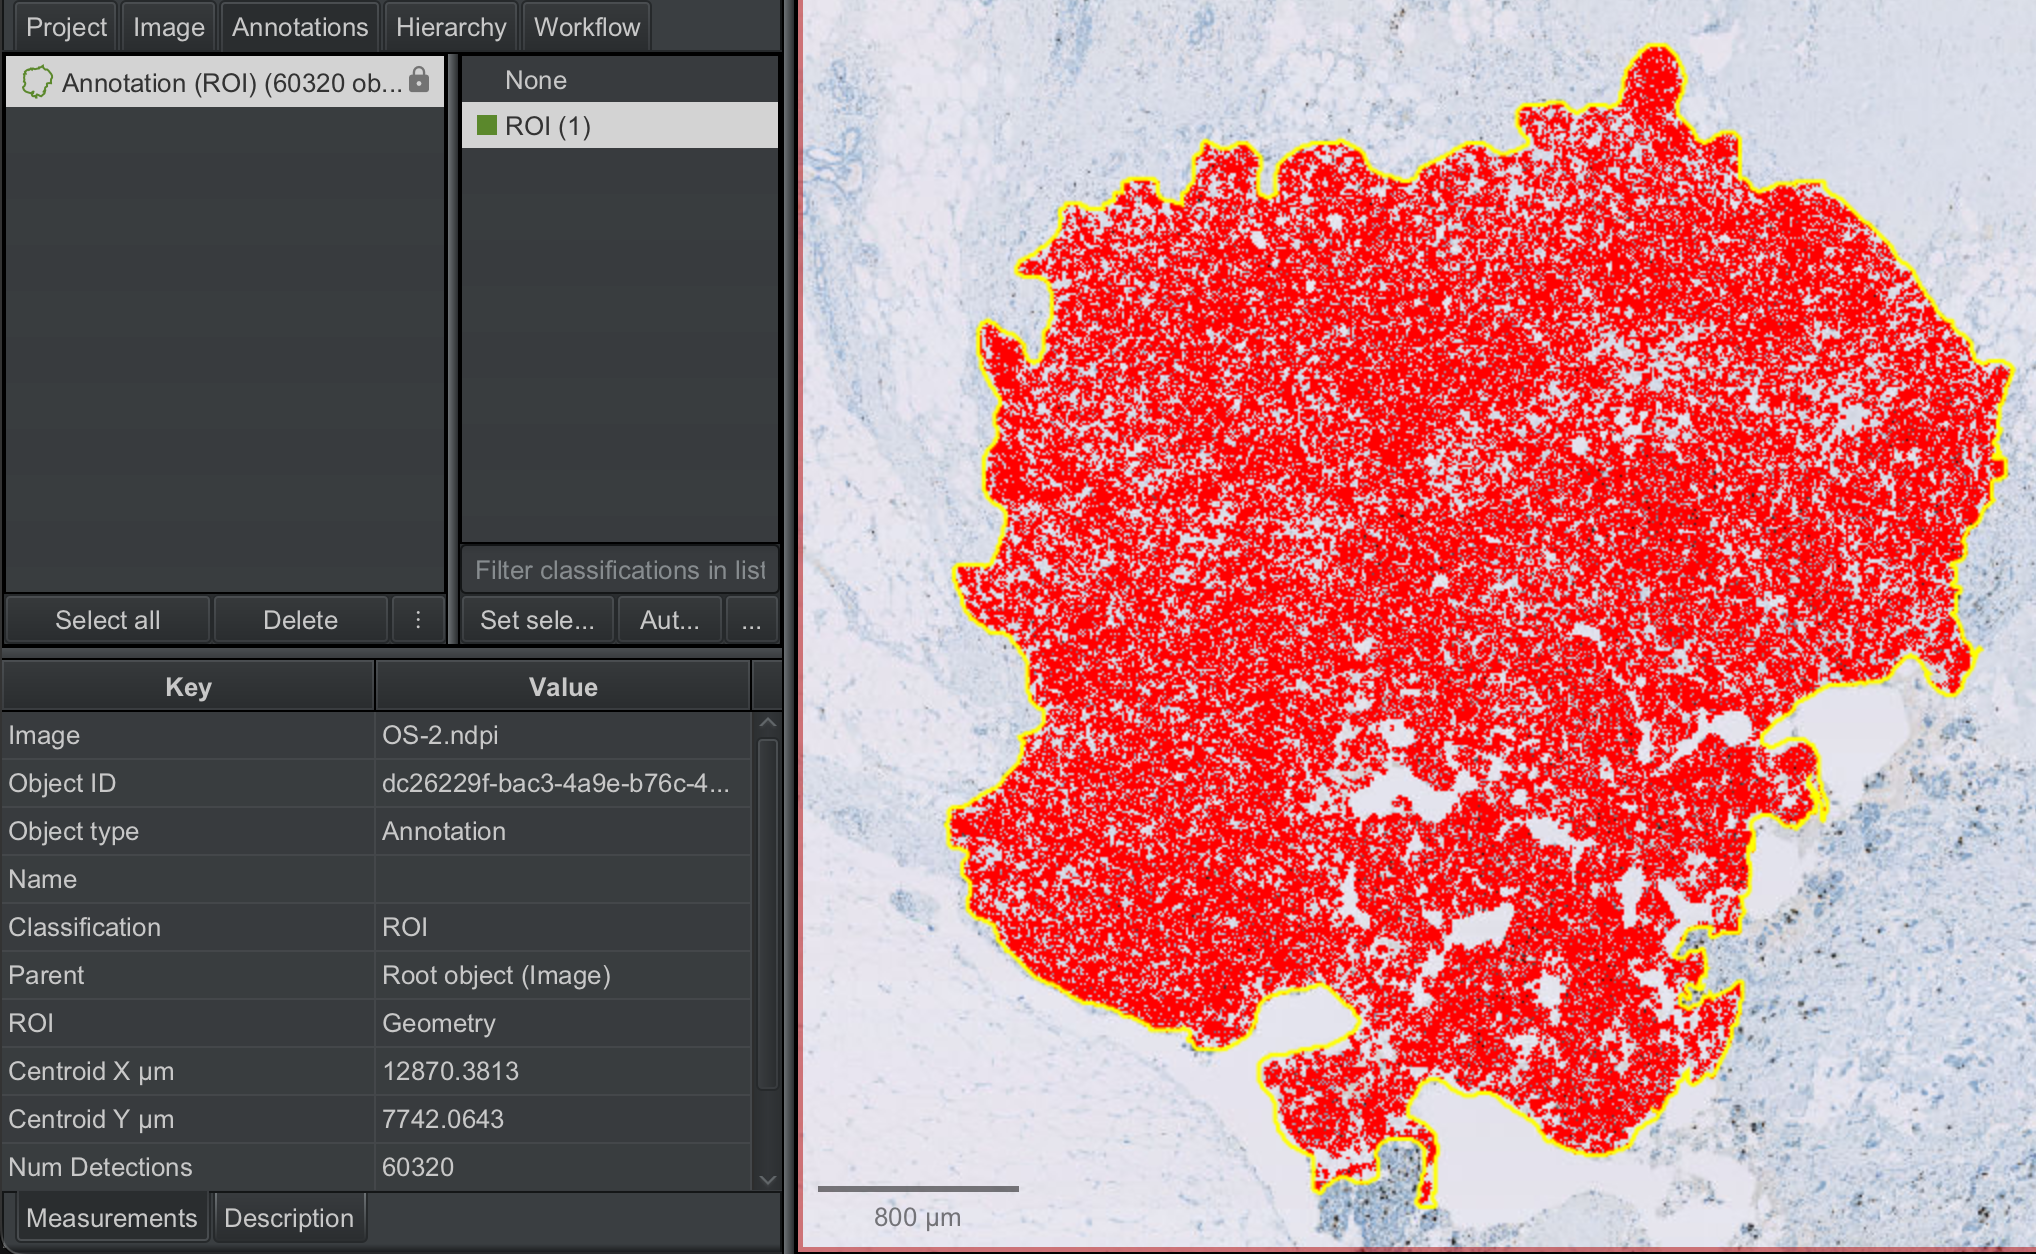
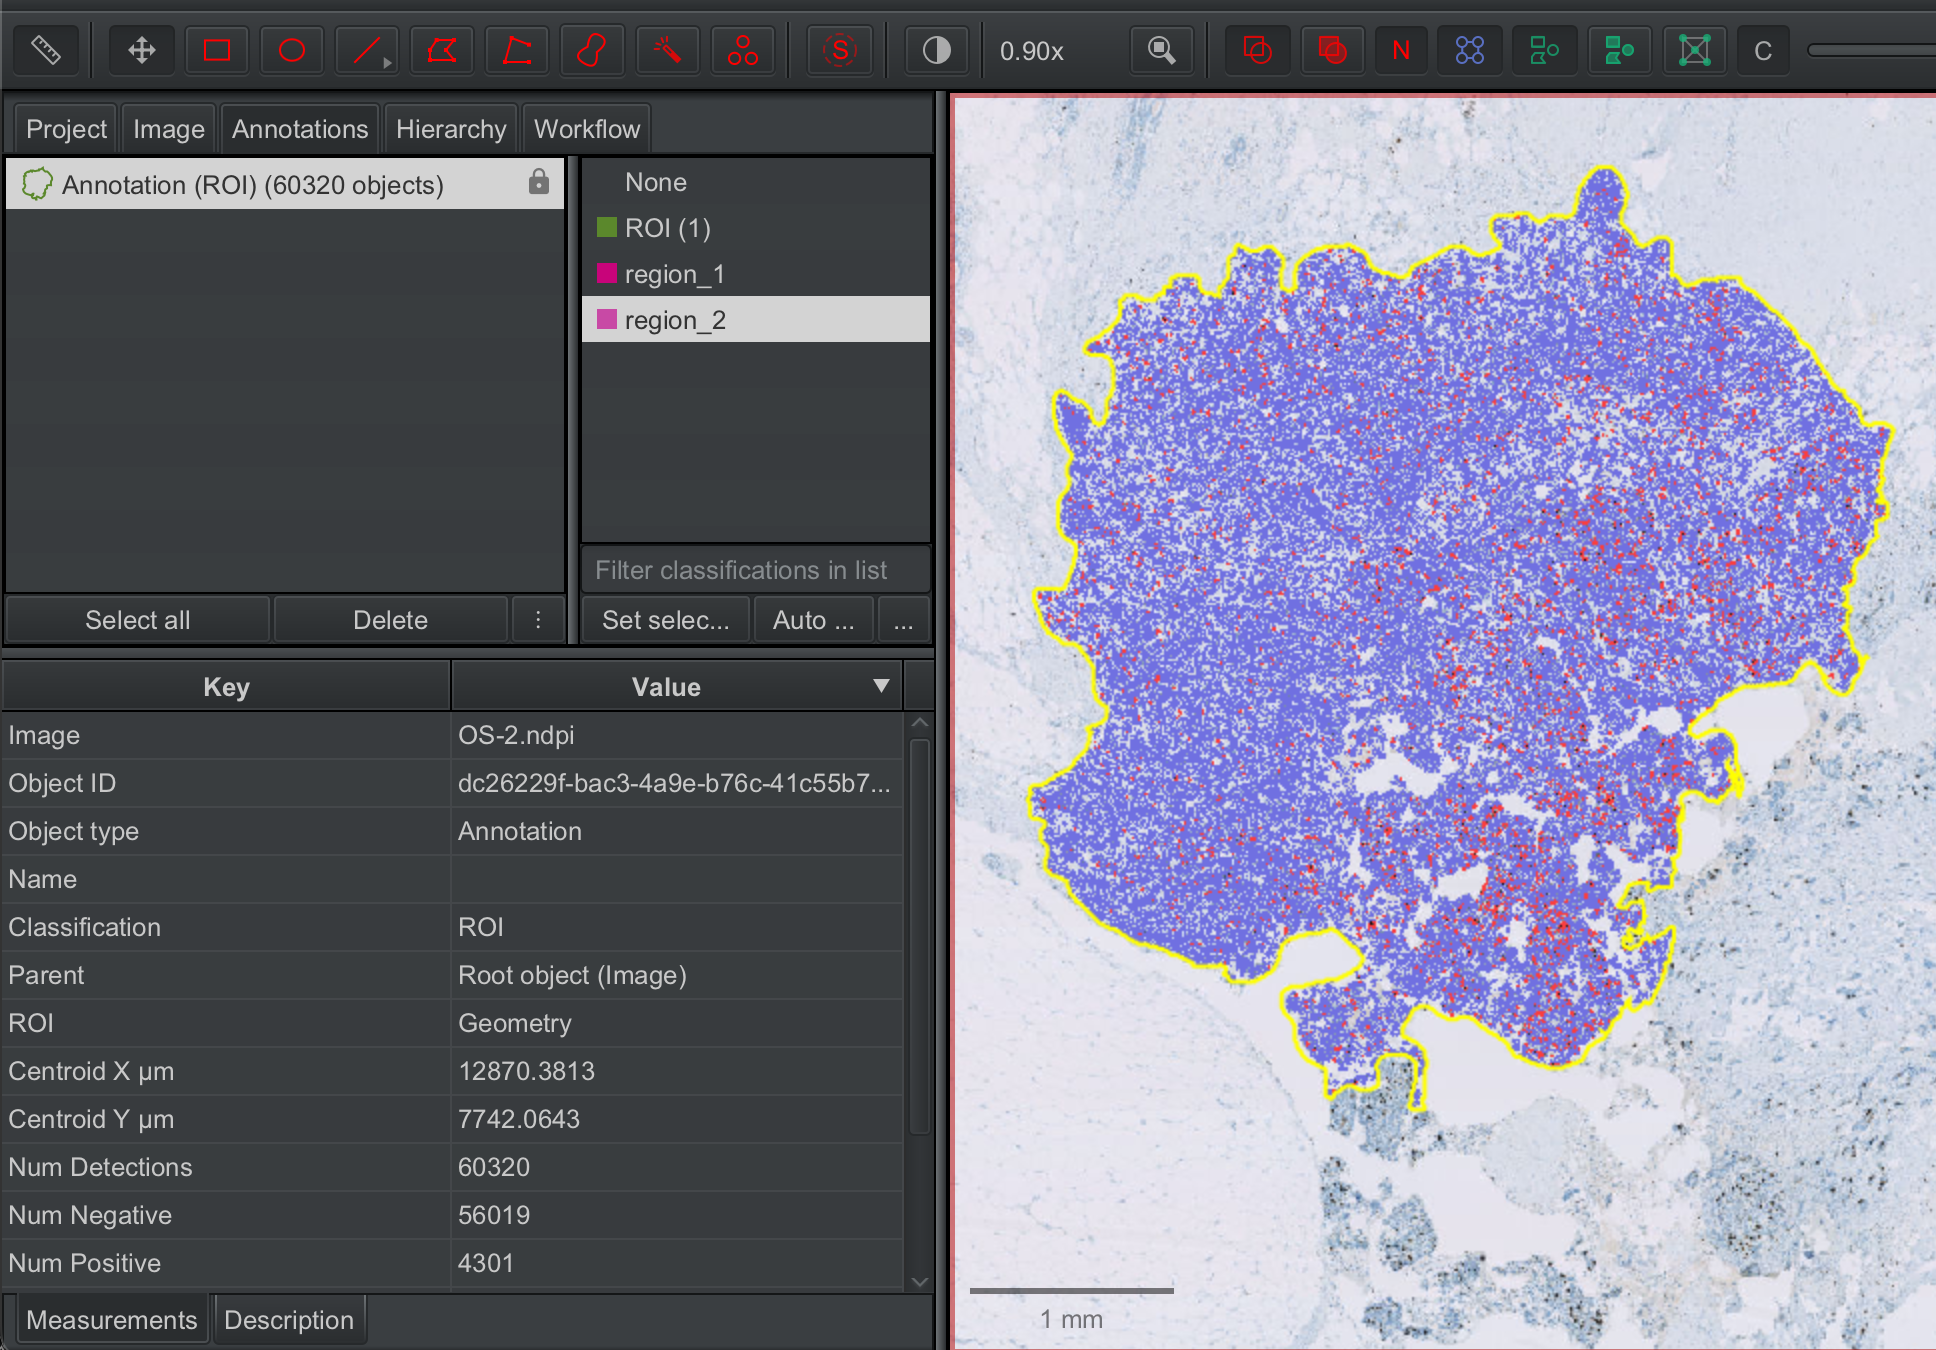
new figures

diff --git a/docs/QuPath_demo/QuPath_demo.md b/docs/QuPath_demo/QuPath_demo.md
@@ -470,17 +470,17 @@ We will now detect the cells in `ROI` to perform measurements on these cells, an
 1. Select the annotation `ROI`; the color of the outline will change to yellow.
 2. Click on `Analyze --> Cell detection --> Positive cell detection`
 
-<img src="TutorialImages/cell_detection_1.png" width="300" height="200" style="margin-left: 40px;">
+<img src="TutorialImages/cell_detection_1.png" width="350" height="200" style="margin-left: 40px;">
 
-3. This will open a window where you can set up cell detection parameters, e.g. setting the minimum and maximum area of the cells, intensity threshold, and so on. Also, note that QuPath detects cell outlines by expanding the nucleus outlines by a fixed distance; this can also be set at this step.
+3. This will open a window where you can set up cell detection parameters, e.g. setting the minimum and maximum area of the cells, intensity threshold, and so on. Also, note that QuPath detects cell outlines by expanding the nucleus outlines by a fixed distance; this can also be set at this step. Since we are categorizing cells as positive or negative based on a nuclear marker, we use `Nucleus: OD DAB mean` as the score compartment to set the intensity threshold.
 
-<img src="TutorialImages/cell_detection_2.png" width="350" height="500" style="margin-left: 40px;">
+<img src="TutorialImages/cell_detection_2.png" width="350" height="700" style="margin-left: 40px;">
 
 For the purpose of the tutorial, we will use the default parameters and hit `Run`, and QuPath will start detecting the cells.
 
 <img src="TutorialImages/cell_detection_3.png" width="350" height="200" style="margin-left: 40px;">
 
-When QuPath finishes, the cell (detections) outlines will appear on the image within the annotated area (`ROI`) where the detection was run, and the number of detections will be updated in the analysis pane next to the annotation thumbnail.
+When QuPath finishes, the cell (detections) outlines will appear on the image within the annotated area (`ROI`) where the detection was run, and the number of detections will be updated in the analysis pane next to the annotation thumbnail. The positive cells are outlined in red and negative cells in blue.
 
 <img src="TutorialImages/cell_detection_4.png" width="800" height="500" style="margin-left: 40px;">
 
